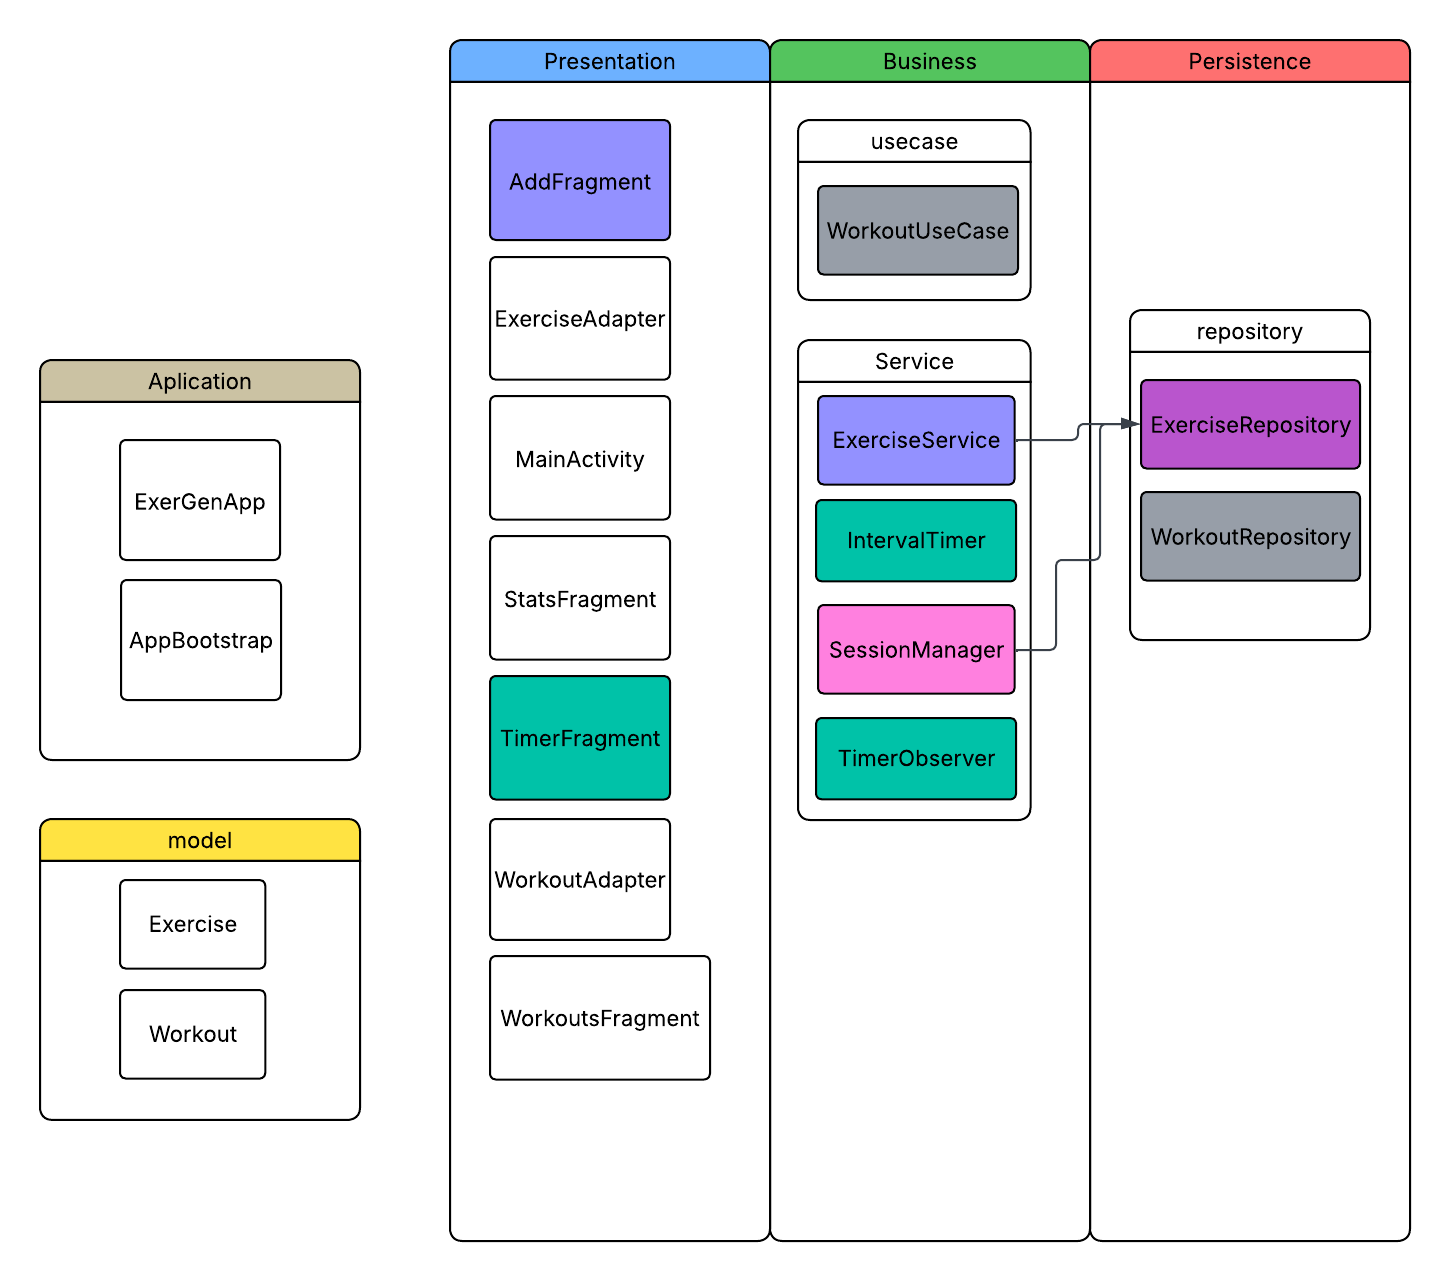
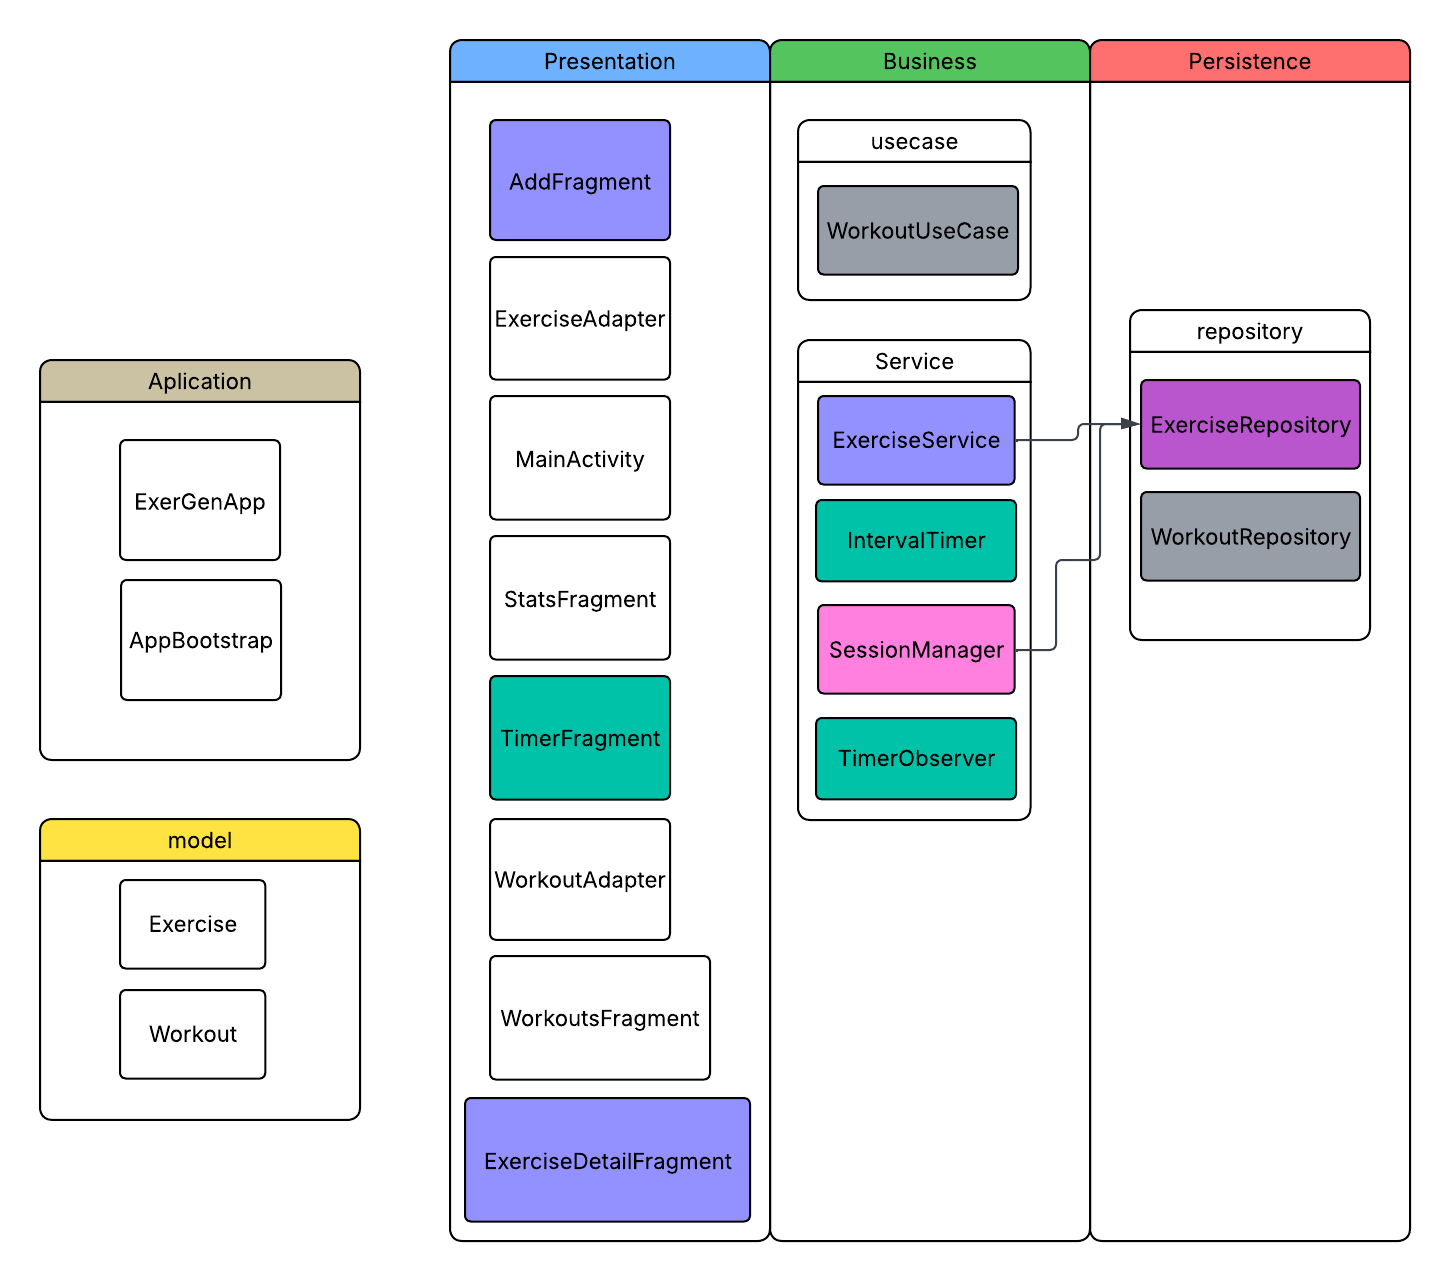
Updating architecture documentation

Changed region(s): [[0.3103, 0.8424, 0.5276, 0.9672]]

diff --git a/ARCHITECTURE.md b/ARCHITECTURE.md
@@ -32,6 +32,9 @@
     - Adapts a list of workouts to be displayed
 - **[`WorkoutsFragment`](app/src/main/java/com/example/exergen/presentation/WorkoutsFragment.java)**
     - Displays a list of user's saved wotkout
+- **[`ExerciseDetailFragment`](app/src/main/java/com/example/exergen/presentation/ExerciseDetailFragment.java)**
+    - Displays detailed information about an exercise
+
 ### Business Layer
 
 #### `business/usecase/`
